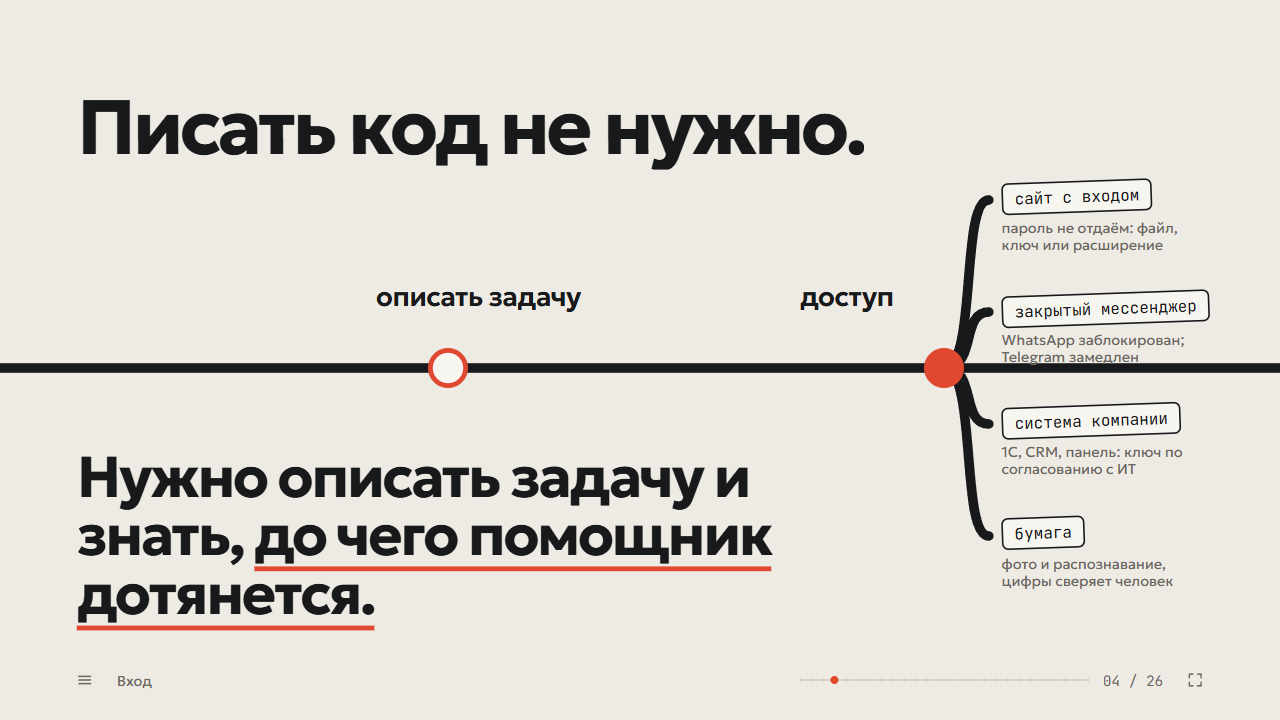
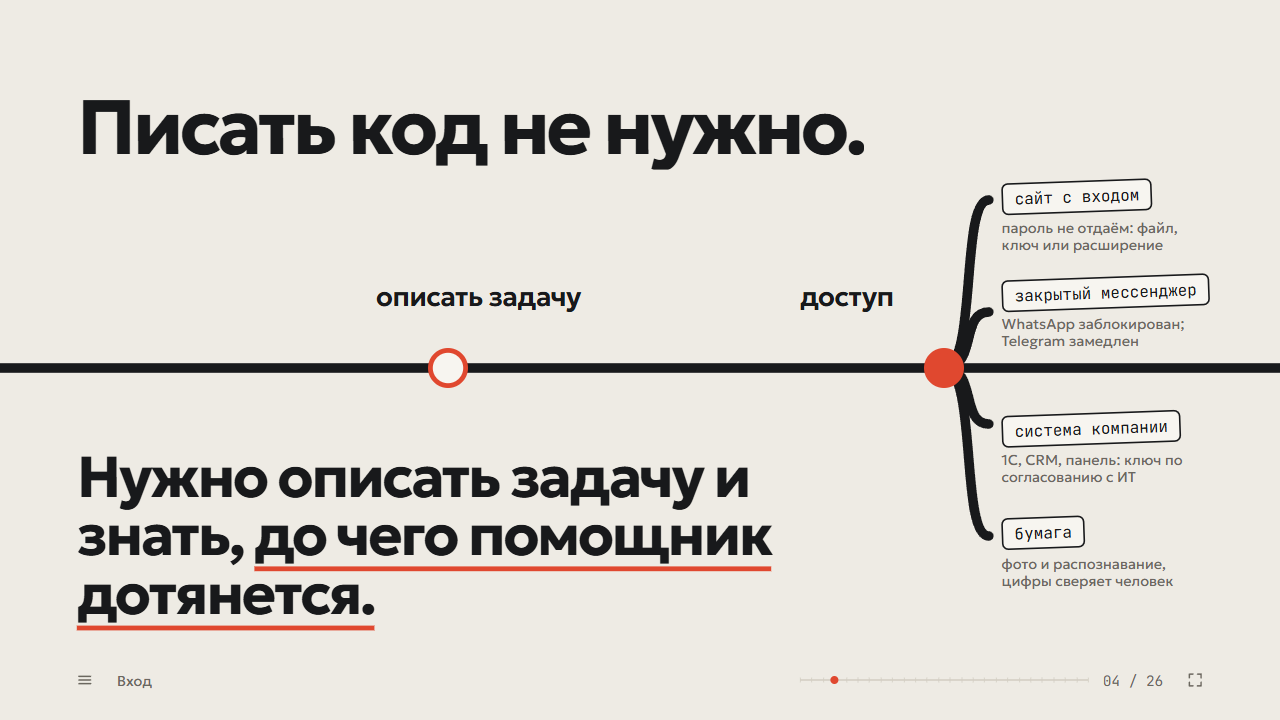
lesson-2: numbers for 27.10 (13 / 5 / 8, 333 calls), fifth pack and ten tasks, "two of ten" slide, slide 4 labels off the line

Changed region(s): [[0.7812, 0.3667, 0.9688, 0.5194], [0.7812, 0.55, 0.9375, 0.6722]]

diff --git a/lesson-2/deck/data.js b/lesson-2/deck/data.js
@@ -1,28 +1,29 @@
 // Все цифры и ссылки колоды — только здесь. Ведущий пересчитывает в день эфира.
 window.DECK_DATA = {
   total: 26,                     // слайдов в колоде
-  participants: 12,              // начали интервью в боте (bot.db, 26.10 17:30)
-  packs: 4,                      // получили пакет
-  halfway: 8,                    // начали, но пакета пока нет (из них четверо не ответили на первый вопрос — на слайдах их нет)
-  calls: 275,                    // обращений к моделям за неделю (bot.db, 26.10 17:30)
-  callsSonnet: 251,
-  callsOpus: 27,                 // 251 + 27 = 278 на 23:40; calls пересчитать перед эфиром
-  cost: '5,56 $',                // на всех участников (bot.db, 26.10 17:30)
-  perPeople: 'на двенадцать человек', // подпись к стоимости на слайдах 4 и 7
-  costPerCall: '0,02 $',         // 5,56 $ / 275 обращений
-  costPerHead: 'меньше 0,5 $',   // 5,56 $ / 12 человек
-  // слайд 7, блок «посчитано на тестах» (bot.db, 26.10): среднее по трём завершённым интервью и по обращениям
-  callsPerInterview: '43',       // обращений на одно полное интервью
-  costPerInterview: 'около 1 $', // 1,04 $ на одно полное интервью
-  sonnetPerCall: '0,01 $',       // Sonnet, среднее за обращение
+  participants: 13,              // начали интервью в боте (bot.db, 27.10 12:30), без тестового входа ведущего
+  packs: 5,                      // получили пакет
+  packsWord: 'пакетов',          // слово после числа пакетов на слайде 2 (2–4 — «пакета», 5–20 — «пакетов»)
+  halfway: 8,                    // начали, но пакета пока нет (из них трое не ответили на первый вопрос — на слайдах их нет)
+  calls: 333,                    // обращений к моделям за неделю (bot.db, 27.10 12:30)
+  callsSonnet: 302,
+  callsOpus: 31,                 // 302 + 31 = 333 на 27.10 12:30
+  cost: '6,49 $',                // на всех участников (bot.db, 27.10 12:30)
+  perPeople: 'на тринадцать человек', // подпись к стоимости на слайдах 4 и 7
+  costPerCall: '0,02 $',         // 6,49 $ / 333 обращений
+  costPerHead: 'около 0,5 $',    // 6,49 $ / 13 человек
+  // слайд 8, блок «посчитано на тестах» (bot.db, 27.10): среднее по пяти завершённым интервью и по обращениям
+  callsPerInterview: '43',       // обращений на одно полное интервью (40–45)
+  costPerInterview: 'около 1 $', // 0,98 $ на одно полное интервью (0,75–1,10)
+  sonnetPerCall: '0,01 $',       // Sonnet, среднее за обращение (0,012)
   opusPerCall: '0,09 $',         // Opus, среднее за обращение; Opus только на документы пакета (MODEL_DOCS)
-  // слайд 3 «Вопросы бота — карта задачи» (bot.db, 26.10 вечер): четыре завершённых интервью
-  qPacks: '4 пакета',                 // завершённых интервью
-  qAnswers: '32–35 ответов на каждый', // сообщений участника на одно интервью (32, 33, 34, 35)
-  qMinutes: 'от 28 минут до часа',    // первый — последний ответ без перерывов (28, 35, 60 минут; одно с перерывами — 5 часов)
-  qGapsDone: '0–1 «не указано» из 21', // ответов «не указано, решить самому» у дошедших до пакета (0, 1, 1, 1 из 21 поля)
+  // слайд 3 «Вопросы бота — карта задачи» (bot.db, 27.10 12:30): пять завершённых интервью
+  qPacks: '5 пакетов',                // завершённых интервью
+  qAnswers: '29–35 ответов на каждый', // сообщений участника на одно интервью (34, 32, 35, 33, 29)
+  qMinutes: 'от 26 минут до часа',    // первый — последний ответ без перерывов (32, 26, 53, 48 минут; одно с перерывами — 5 часов, чистых ~80)
+  qGapsDone: '0–3 «не указано» из 21', // ответов «не указано, решить самому» у дошедших до пакета (0, 1, 1, 2, 3 из 20–22 полей)
   qGapsStuck: '5 «не указано»',       // у участника, который стоит на шаге 8 с 22.10
-  subsMonthly: '240 $',          // если бы подписки: 12 человек × 20 $ в месяц (ChatGPT Plus, Claude Pro)
+  subsMonthly: '260 $',          // если бы подписки: 13 человек × 20 $ в месяц (ChatGPT Plus, Claude Pro)
   demoTime: '16:31',             // плашка на титуле после запуска демо
   demoFolder: 'parking-model',   // имя папки агента на плашке
   botLink: 'https://t.me/zakrasava',   // QR на слайде 23: Telegram ведущего (решение 26.10: не бот)
@@ -74,8 +75,8 @@ window.DECK_DATA = {
     ['Выход', 'Финал'],
   ],
 
-  // слайды 2 и 9: восемь задач ролями (без имён); status: 'ready' | 'step'; step — номер шага из 8.
-  // Четверо, кто не ответил на первый вопрос, в список не входят (решение ведущего 26.10). tag — направление словами участника.
+  // слайды 2 и 11: десять задач ролями (без имён); status: 'ready' | 'step'; step — номер шага из 8.
+  // Трое, кто не ответил на первый вопрос, в список не входят (решение ведущего 26.10). tag — направление словами участника.
   // Слайд 9: pick — задача «по щелчку»; stamp — короткая пометка в списке; need / snag / fix — карточка справа;
   // path — путь запуска. Источник: 00-разбор-наметок.md и сценарий v1, слайд 9.
   tasks: [
@@ -99,11 +100,21 @@ window.DECK_DATA = {
       need: 'Гарант, сайты ФНС, Госдумы и arbitr.ru; таблица в Excel раз в месяц',
       snag: 'в Гарант и в почту вход по учётной записи, ИИ туда не входит',
       fix: 'сравнения редакций из Гаранта участник сохраняет в Word в папку агента; открытые сайты агент читает сам, строки без файла — «сверить в Гаранте»' },
+    { text: 'Идеи акций для ресторана по продажам за месяц', tag: 'рестораны', status: 'ready', pick: true,
+      stamp: 'по щелчку', path: 'проект в ChatGPT или Claude',
+      need: 'выгрузка продаж из iiko, список блюд с ценами и себестоимостью, маркетинговый календарь — всё файлами от участника',
+      snag: 'ничего: в iiko ИИ не входит, выгрузку участник делает сам и загружает в проект',
+      fix: 'проект: вставить инструкцию, загрузить файлы, первый запрос — вечер' },
     { text: 'Отклонения бюджетов от плана и факта', tag: 'финансы', status: 'step', step: 8,
       stamp: 'почта и 1С закрыты', path: 'агент на компьютере',
       need: 'бюджеты подразделений на 2027, бюджет и факт 2026 в Excel, помесячно',
       snag: 'файлы приходят по почте, в 1С входа нет',
       fix: 'файлы кладём в папку агента сами; 1С не трогаем, недостающее ИИ спрашивает у участника' },
+    { text: 'Анализ отчётов ресторанов за месяц', tag: 'рестораны', status: 'step', step: 3,
+      stamp: 'iiko — выгрузка руками', path: 'агент на компьютере',
+      need: 'выгрузки из iiko, таблицы Excel, выписки; заключение и сравнение с прошлым месяцем и годом',
+      snag: 'в iiko входа для программ нет: выгрузку делает человек',
+      fix: 'выгрузку и таблицы кладём в папку агента сами; агент считает сравнение и пишет заключение, цифры сверяет человек' },
     { text: 'Сводка расходов офиса из чеков', tag: 'офис', status: 'step', step: null,
       stamp: 'бумага', path: 'проект или агент',
       need: 'бумажные чеки и PDF за месяц',

diff --git a/lesson-2/deck/index.html b/lesson-2/deck/index.html
@@ -18,10 +18,10 @@
 #s2 h2{position:absolute;left:96px;top:96px}
 #s2 h2 em{font-style:normal;color:var(--signal)}
 #s2 .rows{position:absolute;left:96px;right:96px;top:250px}
-#s2 .row{display:grid;grid-template-columns:44px 1fr 160px 220px;align-items:center;height:60px;border-top:1px solid var(--hair)}
+#s2 .row{display:grid;grid-template-columns:44px 1fr 160px 220px;align-items:center;height:52px;border-top:1px solid var(--hair)}
 #s2 .row:last-child{border-bottom:1px solid var(--hair)}
 #s2 .row .d{width:20px;height:20px;border-radius:50%;border:3px solid var(--ink);transition:background .4s,border-color .4s}
-#s2 .row .tx{font-size:26px;letter-spacing:-.01em}
+#s2 .row .tx{font-size:24px;letter-spacing:-.01em}
 #s2 .row .tg,#s2 .row .stt{font-size:18px;color:var(--muted)}
 #s2 .row .stt{text-align:right}
 #s2 .row.none .tx{color:var(--muted)}
@@ -130,13 +130,13 @@
 
 /* ── 9 · одна из восьми по щелчку: список слева, разбор задачи справа ── */
 #s9 .rows{position:absolute;left:96px;top:226px;width:640px}
-#s9 .row{position:relative;display:grid;grid-template-columns:36px 1fr;align-items:center;height:62px;border-top:1px solid var(--hair);transition:color .3s}
+#s9 .row{position:relative;display:grid;grid-template-columns:36px 1fr;align-items:center;height:54px;border-top:1px solid var(--hair);transition:color .3s}
 #s9 .row:last-child{border-bottom:1px solid var(--hair)}
 #s9 .row .d{width:18px;height:18px;border-radius:50%;border:3px solid var(--ink);transition:background .3s,border-color .3s}
 #s9 .row.none .d{border-style:dashed;border-color:var(--muted)}
 #s9 .row.pick .d{background:var(--signal);border-color:var(--signal)}
-#s9 .row .tx{font-size:23px;letter-spacing:-.01em;line-height:1.15}
-#s9 .row .sm{display:block;font-size:18px;color:var(--muted);margin-top:2px;opacity:0;transition:opacity .4s}
+#s9 .row .tx{font-size:21px;letter-spacing:-.01em;line-height:1.15}
+#s9 .row .sm{display:block;font-size:16px;color:var(--muted);margin-top:1px;opacity:0;transition:opacity .4s}
 #s9 .row.seen .sm{opacity:1}
 #s9 .row.pick .sm{color:var(--signal)}
 #s9 .rows.focus .row:not(.act) .tx{color:#8F8A80}
@@ -403,9 +403,9 @@
 
 <!-- 2 ─────────────────────────────────────────── -->
 <section class="slide" id="s2" data-n="2" data-block="Вход" data-steps="1">
-  <h2 class="h-m fx"><span data-k="participants"></span> начали · <em><span data-k="packs"></span> пакета</em> · <span data-k="halfway"></span> на полпути</h2>
+  <h2 class="h-m fx"><span data-k="participants"></span> начали · <em><span data-k="packs"></span> <span data-k="packsWord"></span></em> · <span data-k="halfway"></span> на полпути</h2>
   <div class="rows" id="s2-rows"></div>
-  <aside class="notes">Восемь задач, все про данные и файлы, ни одной «напиши текст». Двенадцать начали, четверо дошли до пакета (четвёртый пакет — таблица изменений законодательства, пришёл вечером 26.10); кто не ответил на первый вопрос, на слайде не показан. → — три готовых пакета получают точку.</aside>
+  <aside class="notes">Десять задач, все про данные и файлы, ни одной «напиши текст». Тринадцать начали, пятеро дошли до пакета (пятый — идеи акций для ресторана, пришёл днём 27.10); кто не ответил на первый вопрос, на слайде не показан. → — пять готовых пакетов получают точку.</aside>
 </section>
 
 <!-- 3 ─────────────────────────────────────────── -->
@@ -454,8 +454,8 @@
   <div class="lbl fx" data-d="700" style="left:470px">описать задачу</div>
   <div class="lbl fx" data-d="900" style="left:1000px">доступ</div>
   <div class="bar fx" data-on="1" data-d="250" style="top:226px"><span class="stamp mono">сайт с входом</span><span>пароль не отдаём: файл, ключ или расширение</span></div>
-  <div class="bar fx" data-on="1" data-d="400" style="top:366px"><span class="stamp mono">закрытый мессенджер</span><span>WhatsApp заблокирован; Telegram замедлен</span></div>
-  <div class="bar fx" data-on="1" data-d="550" style="top:506px"><span class="stamp mono">система компании</span><span>1С, CRM, панель: ключ по согласованию с ИТ</span></div>
+  <div class="bar fx" data-on="1" data-d="400" style="top:346px"><span class="stamp mono">закрытый мессенджер</span><span>WhatsApp заблокирован; Telegram замедлен</span></div>
+  <div class="bar fx" data-on="1" data-d="550" style="top:516px"><span class="stamp mono">система компании</span><span>1С, CRM, панель: ключ по согласованию с ИТ</span></div>
   <div class="bar fx" data-on="1" data-d="700" style="top:646px"><span class="stamp mono">бумага</span><span>фото и распознавание, цифры сверяет человек</span></div>
   <p class="h-m p2 fx" data-d="500">Нужно описать задачу и знать, <u>до чего помощник дотянется.</u></p>
   <aside class="notes">Главная мысль урока. Про расширение в сессии: агент действует от вашего имени в открытом кабинете, поэтому разрешаем конкретные сайты и действия, а отправку, изменение и удаление подтверждает человек; в компании — согласовать с ИТ. Про мессенджер точнее: WhatsApp в России заблокирован с февраля 2026 (домены исключены из НСДИ, доступ через VPN), у личного аккаунта входа для программ нет; у Telegram открытый Bot API, но с 10.02.2026 его замедляют — наш бот работает, запасной канал держать. → — загорается узел «доступ» и четыре преграды, в которые упирается почти каждая задача: сайт с входом, закрытый мессенджер, система компании, бумага. Подробно — на карте подключений.</aside>
@@ -600,9 +600,9 @@
 
 <!-- 11 ─────────────────────────────────────────── -->
 <section class="slide" id="s9" data-n="11" data-block="Ваши ТЗ" data-steps="6">
-  <h2 class="h-m ttl"><span class="mask"><span>Одна из восьми — по щелчку</span></span></h2>
+  <h2 class="h-m ttl"><span class="mask"><span>Две из десяти — по щелчку</span></span></h2>
   <div class="rows" id="s9-rows"></div>
-  <aside class="notes">Сначала задача Александра — она по щелчку и уже крутится. Каждый → — следующая задача: что нужно, где упирается в доступ, как решаем. На рейсах — главная мысль: ко всему даёшь задачу агенту, и процесс он придумывает сам: Telegram вместо WhatsApp, робот‑браузер по сайтам авиакомпаний, API где есть, страницы читает модель. Тех, кто не ответил на первый вопрос, на слайде нет.</aside>
+  <aside class="notes">Сначала задача Александра — она по щелчку и уже крутится; вторая «по щелчку» — идеи акций для ресторана: файлы приносит сам участник, проект. Каждый → — следующая задача: что нужно, где упирается в доступ, как решаем. На рейсах: бот работал в рамках названных инструментов, другие не искал — об этом два следующих слайда. Тех, кто не ответил на первый вопрос, на слайде нет.</aside>
 </section>
 
 <!-- 12 ─────────────────────────────────────────── -->

diff --git a/lesson-2/index.html b/lesson-2/index.html
@@ -19,10 +19,10 @@
 #s2 h2{position:absolute;left:96px;top:96px}
 #s2 h2 em{font-style:normal;color:var(--signal)}
 #s2 .rows{position:absolute;left:96px;right:96px;top:250px}
-#s2 .row{display:grid;grid-template-columns:44px 1fr 160px 220px;align-items:center;height:60px;border-top:1px solid var(--hair)}
+#s2 .row{display:grid;grid-template-columns:44px 1fr 160px 220px;align-items:center;height:52px;border-top:1px solid var(--hair)}
 #s2 .row:last-child{border-bottom:1px solid var(--hair)}
 #s2 .row .d{width:20px;height:20px;border-radius:50%;border:3px solid var(--ink);transition:background .4s,border-color .4s}
-#s2 .row .tx{font-size:26px;letter-spacing:-.01em}
+#s2 .row .tx{font-size:24px;letter-spacing:-.01em}
 #s2 .row .tg,#s2 .row .stt{font-size:18px;color:var(--muted)}
 #s2 .row .stt{text-align:right}
 #s2 .row.none .tx{color:var(--muted)}
@@ -131,13 +131,13 @@
 
 /* ── 9 · одна из восьми по щелчку: список слева, разбор задачи справа ── */
 #s9 .rows{position:absolute;left:96px;top:226px;width:640px}
-#s9 .row{position:relative;display:grid;grid-template-columns:36px 1fr;align-items:center;height:62px;border-top:1px solid var(--hair);transition:color .3s}
+#s9 .row{position:relative;display:grid;grid-template-columns:36px 1fr;align-items:center;height:54px;border-top:1px solid var(--hair);transition:color .3s}
 #s9 .row:last-child{border-bottom:1px solid var(--hair)}
 #s9 .row .d{width:18px;height:18px;border-radius:50%;border:3px solid var(--ink);transition:background .3s,border-color .3s}
 #s9 .row.none .d{border-style:dashed;border-color:var(--muted)}
 #s9 .row.pick .d{background:var(--signal);border-color:var(--signal)}
-#s9 .row .tx{font-size:23px;letter-spacing:-.01em;line-height:1.15}
-#s9 .row .sm{display:block;font-size:18px;color:var(--muted);margin-top:2px;opacity:0;transition:opacity .4s}
+#s9 .row .tx{font-size:21px;letter-spacing:-.01em;line-height:1.15}
+#s9 .row .sm{display:block;font-size:16px;color:var(--muted);margin-top:1px;opacity:0;transition:opacity .4s}
 #s9 .row.seen .sm{opacity:1}
 #s9 .row.pick .sm{color:var(--signal)}
 #s9 .rows.focus .row:not(.act) .tx{color:#8F8A80}
@@ -403,7 +403,7 @@
 
 <!-- 2 ─────────────────────────────────────────── -->
 <section class="slide" id="s2" data-n="2" data-block="Вход" data-steps="1">
-  <h2 class="h-m fx"><span data-k="participants"></span> начали · <em><span data-k="packs"></span> пакета</em> · <span data-k="halfway"></span> на полпути</h2>
+  <h2 class="h-m fx"><span data-k="participants"></span> начали · <em><span data-k="packs"></span> <span data-k="packsWord"></span></em> · <span data-k="halfway"></span> на полпути</h2>
   <div class="rows" id="s2-rows"></div>
 </section>
 
@@ -452,8 +452,8 @@
   <div class="lbl fx" data-d="700" style="left:470px">описать задачу</div>
   <div class="lbl fx" data-d="900" style="left:1000px">доступ</div>
   <div class="bar fx" data-on="1" data-d="250" style="top:226px"><span class="stamp mono">сайт с входом</span><span>пароль не отдаём: файл, ключ или расширение</span></div>
-  <div class="bar fx" data-on="1" data-d="400" style="top:366px"><span class="stamp mono">закрытый мессенджер</span><span>WhatsApp заблокирован; Telegram замедлен</span></div>
-  <div class="bar fx" data-on="1" data-d="550" style="top:506px"><span class="stamp mono">система компании</span><span>1С, CRM, панель: ключ по согласованию с ИТ</span></div>
+  <div class="bar fx" data-on="1" data-d="400" style="top:346px"><span class="stamp mono">закрытый мессенджер</span><span>WhatsApp заблокирован; Telegram замедлен</span></div>
+  <div class="bar fx" data-on="1" data-d="550" style="top:516px"><span class="stamp mono">система компании</span><span>1С, CRM, панель: ключ по согласованию с ИТ</span></div>
   <div class="bar fx" data-on="1" data-d="700" style="top:646px"><span class="stamp mono">бумага</span><span>фото и распознавание, цифры сверяет человек</span></div>
   <p class="h-m p2 fx" data-d="500">Нужно описать задачу и знать, <u>до чего помощник дотянется.</u></p>
 </section>
@@ -591,7 +591,7 @@
 
 <!-- 11 ─────────────────────────────────────────── -->
 <section class="slide" id="s9" data-n="11" data-block="Ваши ТЗ" data-steps="6">
-  <h2 class="h-m ttl"><span class="mask"><span>Одна из восьми — по щелчку</span></span></h2>
+  <h2 class="h-m ttl"><span class="mask"><span>Две из десяти — по щелчку</span></span></h2>
   <div class="rows" id="s9-rows"></div>
 </section>
 
